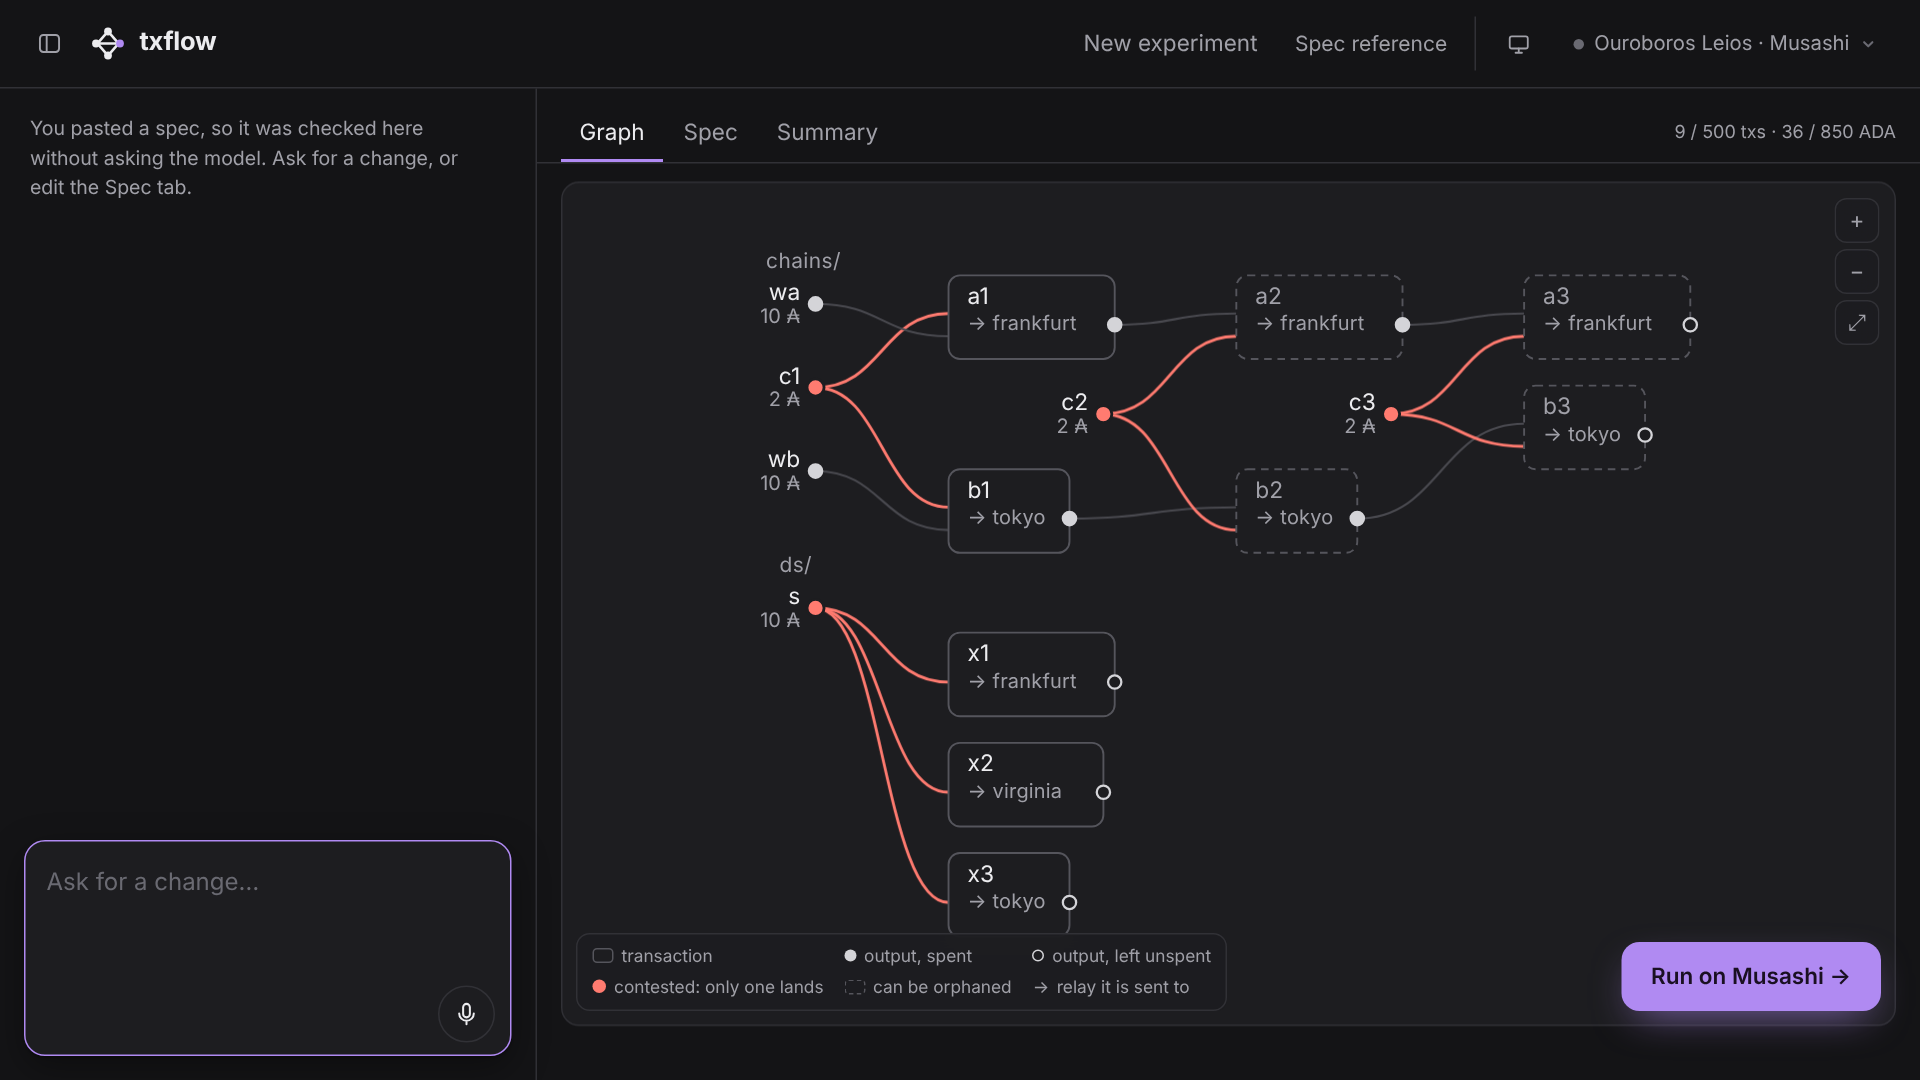
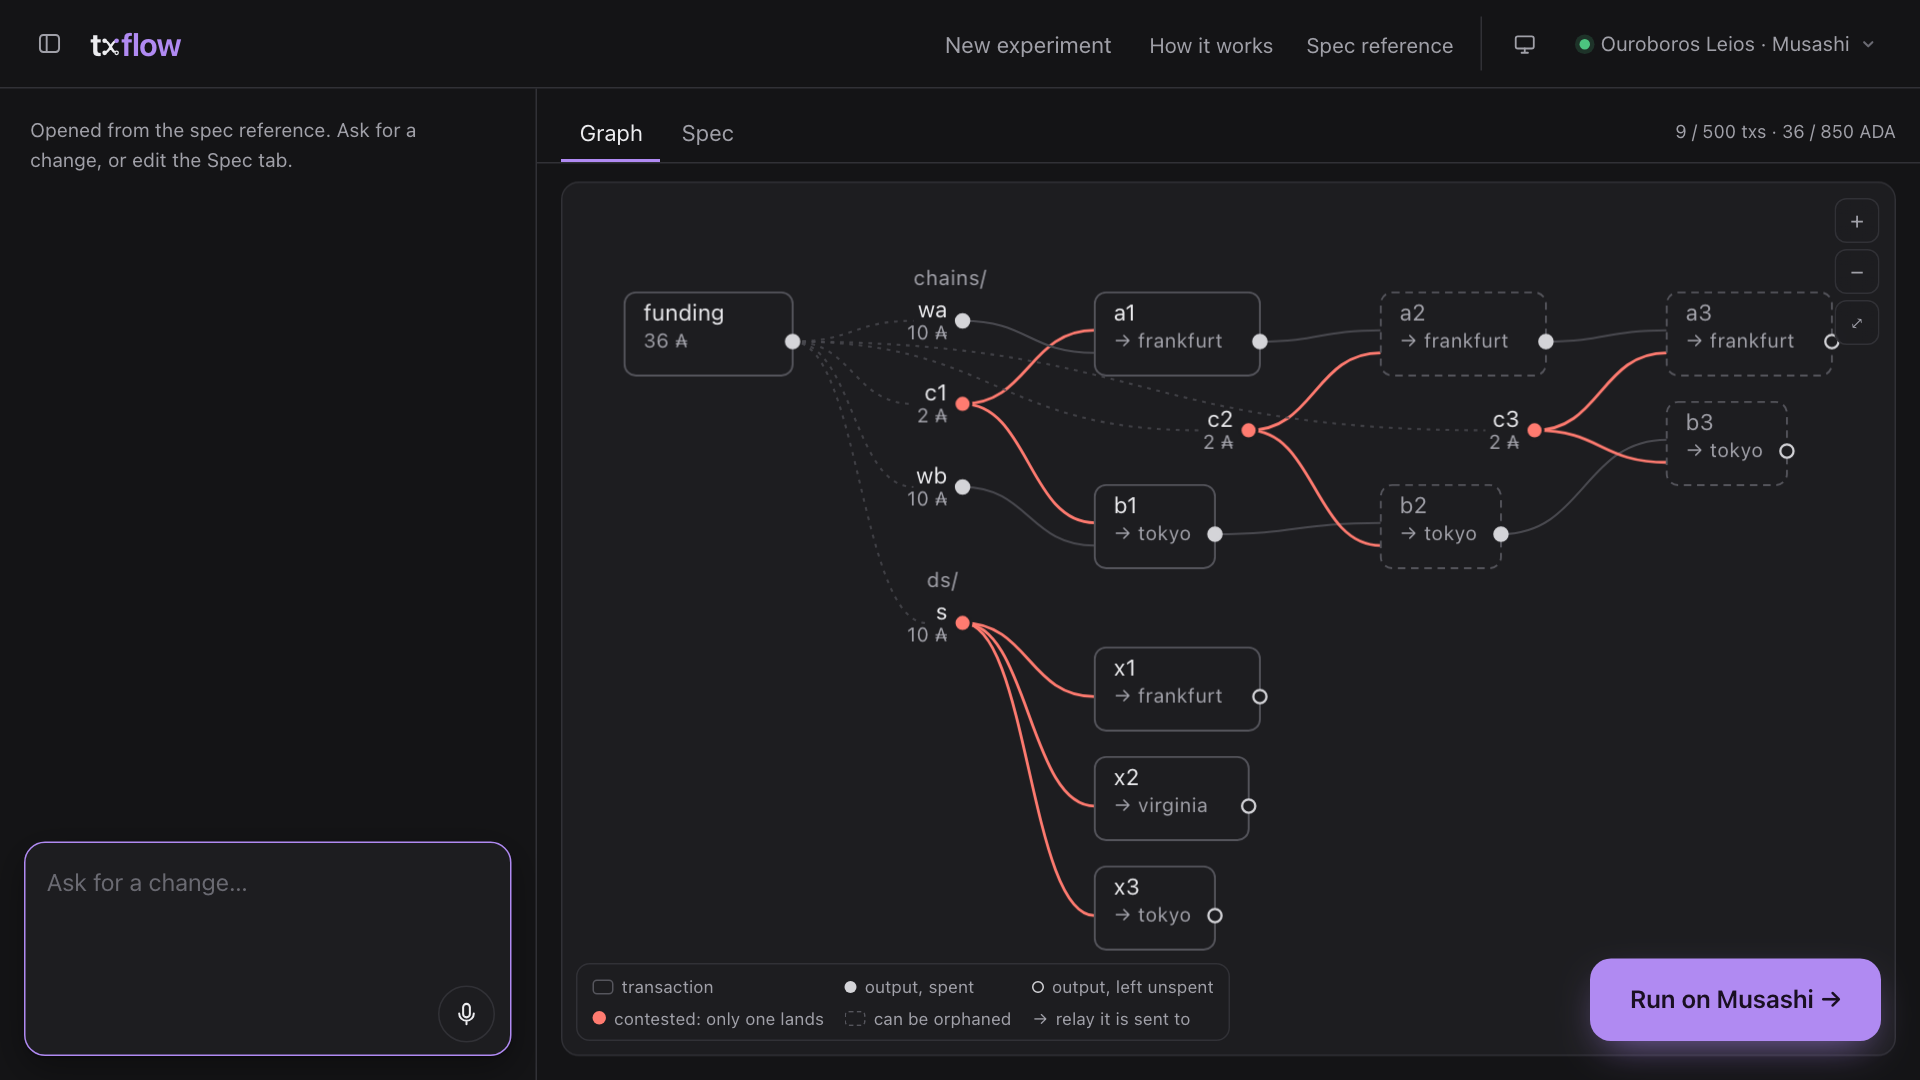
README: center the links and the screenshot, and show the current editor
The screenshots are the relay-race example on txflow.fun as it looks today, with the funding transaction and the new header.

diff --git a/README.md b/README.md
@@ -3,12 +3,16 @@
 Describe a Cardano transaction flow, see its UTxO graph, and run it on the
 Leios Musashi test network.
 
-**[txflow.fun](https://txflow.fun)** · [Spec reference](https://txflow.fun/spec.html)
+<p align="center">
+  <strong><a href="https://txflow.fun">txflow.fun</a></strong> · <a href="https://txflow.fun/spec.html">Spec reference</a>
+</p>
 
-<picture>
-  <source media="(prefers-color-scheme: dark)" srcset="docs/images/editor-dark.png">
-  <img alt="The txflow editor: a spec drawn as a UTxO graph, with two competing chains and a three-way double spend sent to relays in Frankfurt, Virginia and Tokyo" src="docs/images/editor-light.png">
-</picture>
+<p align="center">
+  <picture>
+    <source media="(prefers-color-scheme: dark)" srcset="docs/images/editor-dark.png">
+    <img alt="The txflow editor: a spec drawn as a UTxO graph, funded from one transaction, with two competing chains and a three-way double spend sent to relays in Frankfurt, Virginia and Tokyo" src="docs/images/editor-light.png">
+  </picture>
+</p>
 
 An experiment is a short YAML spec: which transaction spends which output, where
 transactions deliberately conflict, and which relay gets each one when. It has
